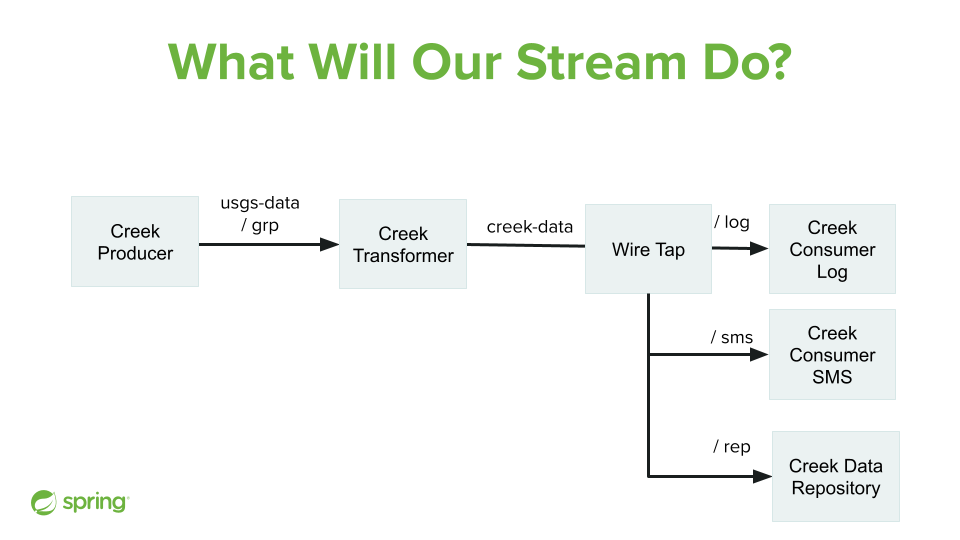
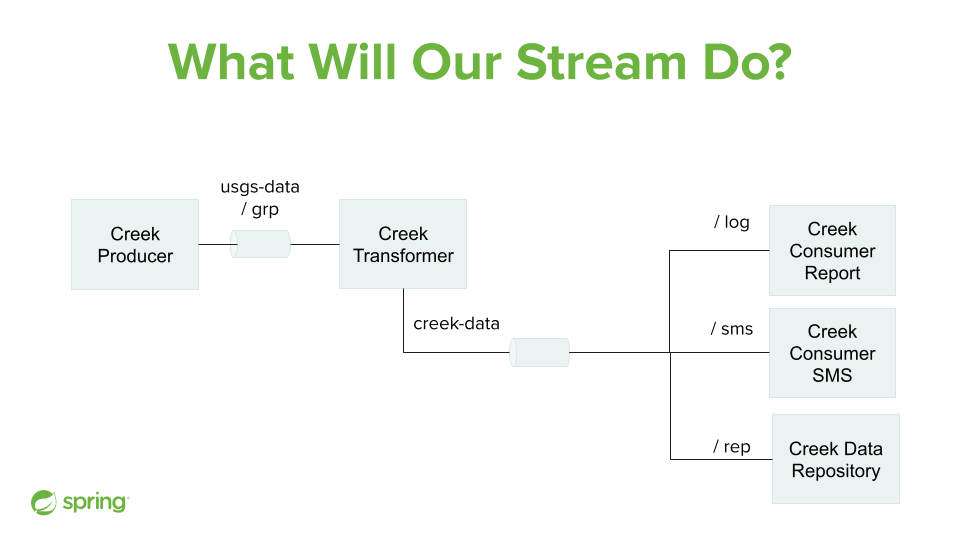
Updated add notes learned from presentation
* Consumer Log is now the default
* SMS settings can now be provided via properties
* Diagram updated
* Code Cleanup

diff --git a/creekconsumer/src/main/java/io/spring/creekconsumer/ConsumerApplication.java b/creekconsumer/src/main/java/io/spring/creekconsumer/ConsumerApplication.java
@@ -10,6 +10,7 @@ import org.springframework.boot.WebApplicationType;
 import org.springframework.boot.autoconfigure.SpringBootApplication;
 import org.springframework.boot.autoconfigure.condition.ConditionalOnProperty;
 import org.springframework.boot.builder.SpringApplicationBuilder;
+import org.springframework.boot.context.properties.EnableConfigurationProperties;
 import org.springframework.context.annotation.Bean;
 import org.springframework.web.client.RestTemplate;
 
@@ -17,6 +18,7 @@ import io.spring.creekfunctions.CreekMeasurement;
 import io.spring.creekfunctions.ReportCreekMeasurements;
 
 @SpringBootApplication
+@EnableConfigurationProperties(ConsumerProperties.class)
 public class ConsumerApplication {
 
 	public static void main(String[] args) {
@@ -39,20 +41,21 @@ public class ConsumerApplication {
 	
 	@Bean
 	@ConditionalOnProperty(value="spring.cloud.function.definition", havingValue = "generateReport|sms")
-	public Consumer<String> sms() {
+	public Consumer<String> sms(ConsumerProperties consumerProperties) {
 		System.out.println("==> Creating SMS SENDER");
 		return v -> {
 			System.out.println("Request sms string: " +v);
 			try {	
 				StringBuilder builder = new StringBuilder("https://textbelt.com/text");
 				builder.append("?phone=");
-				builder.append(URLEncoder.encode("+1<yourphonenumber>", StandardCharsets.UTF_8.toString()));
+				builder.append(URLEncoder.encode(consumerProperties.getPhoneNumber(), StandardCharsets.UTF_8.toString()));
 				builder.append("&message=");
-				builder.append(URLEncoder.encode("Here is your monday morning fishing report: \n" + v, StandardCharsets.UTF_8.toString()));
+				builder.append(URLEncoder.encode("Here is your kayaking report: \n" + v, StandardCharsets.UTF_8.toString()));
 				builder.append("&key="); 
-				builder.append(URLEncoder.encode("<get key>", StandardCharsets.UTF_8.toString()));
-				System.out.println("Request string: " + builder.toString());
+				builder.append(URLEncoder.encode(consumerProperties.getSmsKey(), StandardCharsets.UTF_8.toString()));
+				System.out.println("Request string: " + builder);
 				RestTemplate rest = new RestTemplate();
+				rest.getForObject(builder.toString(),String.class);
 			} 
 			catch (Exception e) {
 				e.printStackTrace();

diff --git a/creekconsumer/src/main/java/io/spring/creekconsumer/ConsumerProperties.java b/creekconsumer/src/main/java/io/spring/creekconsumer/ConsumerProperties.java
@@ -1,0 +1,49 @@
+/*
+ * Copyright 2017 the original author or authors.
+ *
+ *  Licensed under the Apache License, Version 2.0 (the "License");
+ *  you may not use this file except in compliance with the License.
+ *  You may obtain a copy of the License at
+ *
+ *          http://www.apache.org/licenses/LICENSE-2.0
+ *
+ *  Unless required by applicable law or agreed to in writing, software
+ *  distributed under the License is distributed on an "AS IS" BASIS,
+ *  WITHOUT WARRANTIES OR CONDITIONS OF ANY KIND, either express or implied.
+ *  See the License for the specific language governing permissions and
+ *  limitations under the License.
+ */
+
+package io.spring.creekconsumer;
+
+import java.util.Map;
+
+import org.springframework.boot.context.properties.ConfigurationProperties;
+import org.springframework.context.annotation.Bean;
+import org.springframework.context.annotation.Configuration;
+
+@Configuration
+@ConfigurationProperties("io.spring")
+public class ConsumerProperties {
+
+	private String smsKey = "somethingsomething";
+	private String phoneNumber = "1770xxxxxxx";
+
+	public String getSmsKey() {
+		return smsKey;
+	}
+
+	public void setSmsKey(String smsKey) {
+		this.smsKey = smsKey;
+	}
+
+	public String getPhoneNumber() {
+		return phoneNumber;
+	}
+
+	public void setPhoneNumber(String phoneNumber) {
+		this.phoneNumber = phoneNumber;
+	}
+
+
+}
